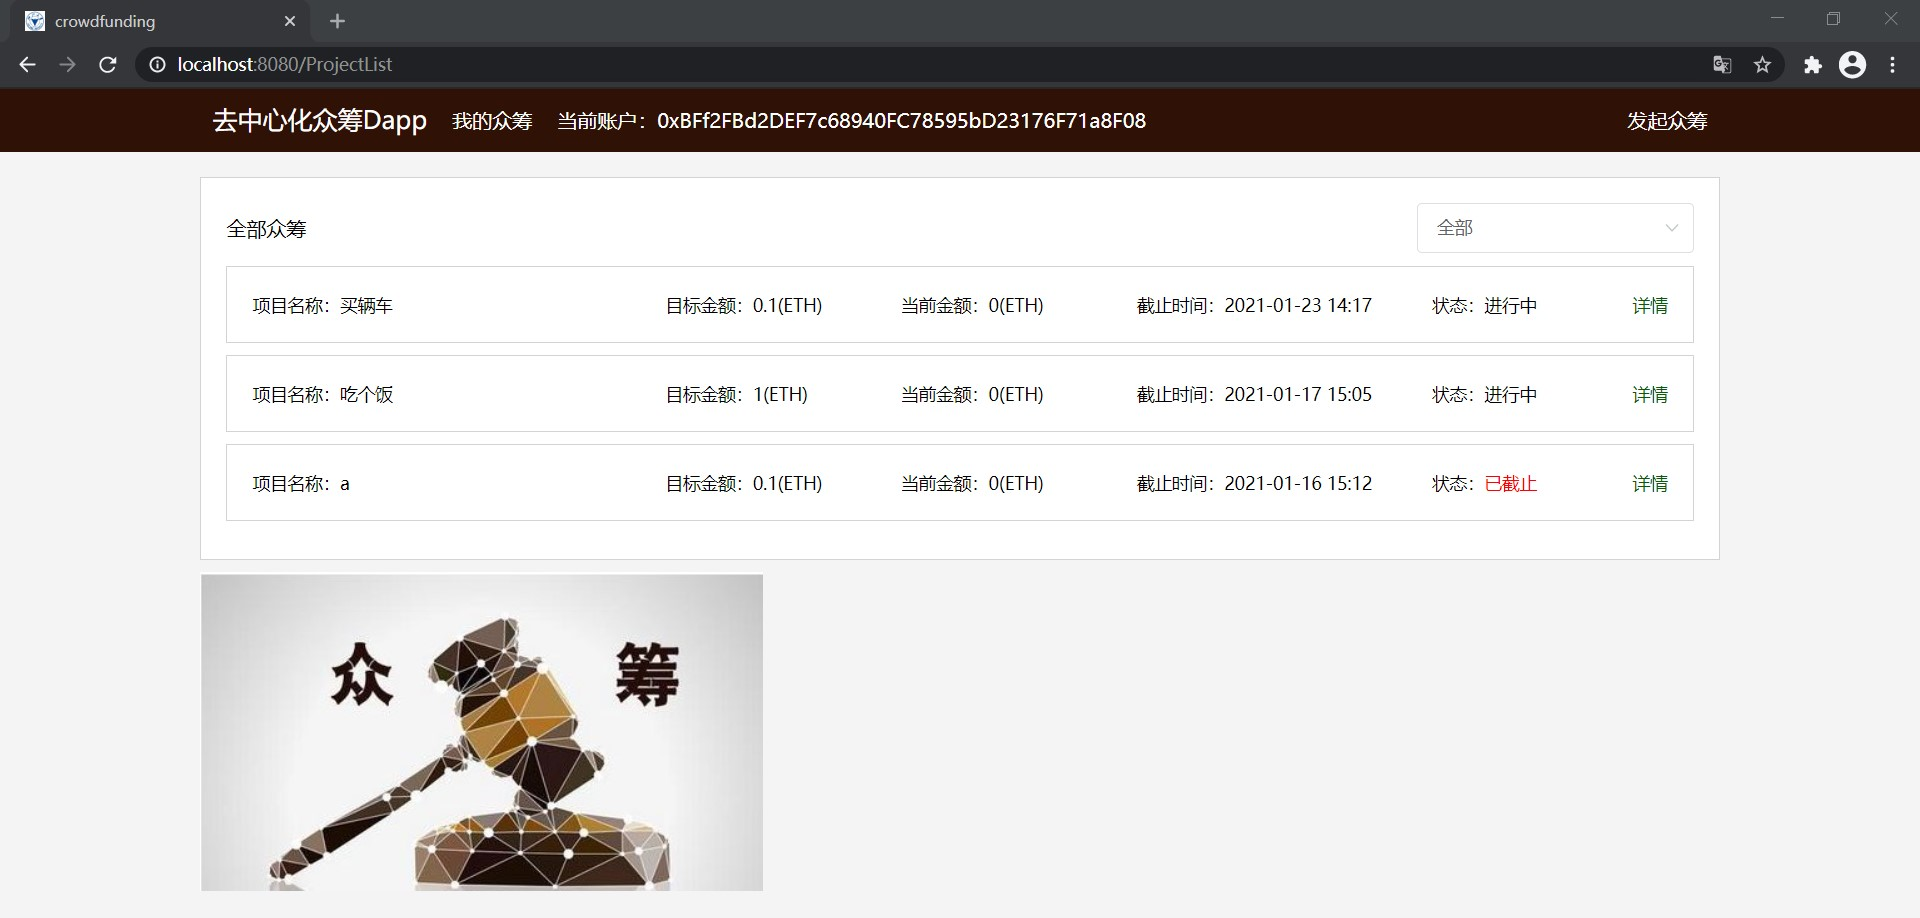
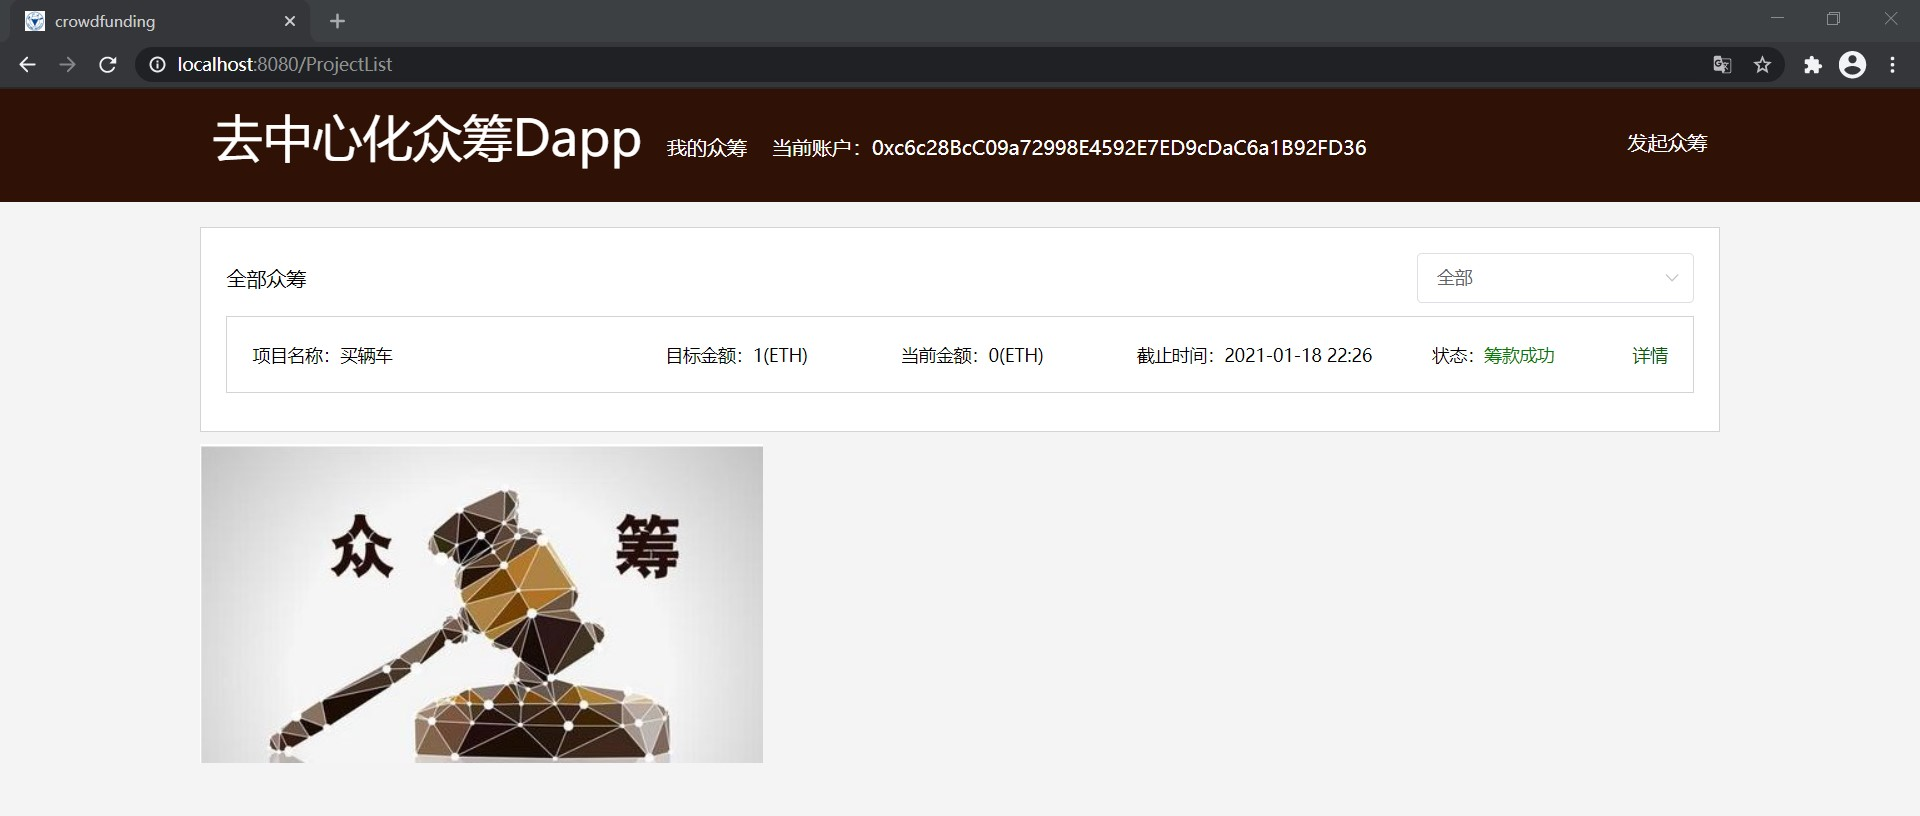
‘finalwork提交

diff --git a/zangyixiao/finalWork/crowdfunding/src/components/navigation.vue b/zangyixiao/finalWork/crowdfunding/src/components/navigation.vue
@@ -59,7 +59,7 @@ export default {
 <style scoped>
 .mainNav {
   background-color: #301105;
-  height: 50px;
+  height: 90px;
   padding: 0 160px;
   font-size: 16px;
   font-family: 微软雅黑;
@@ -69,7 +69,7 @@ export default {
 }
 
 .navButton {
-  font-size: 20px;
+  font-size: 40px;
   color: white;
   text-decoration: none;
   position: relative;
@@ -99,7 +99,7 @@ export default {
 .positionRight {
   position: absolute;
   right: 160px;
-  top: 14px;
+  top: 32px;
 }
 
 .el-dropdown-link {

diff --git a/zangyixiao/finalWork/crowdfunding/src/components/RequestWithdrawal.vue b/zangyixiao/finalWork/crowdfunding/src/components/RequestWithdrawal.vue
@@ -12,7 +12,7 @@
             <el-input required="true" type="textarea" v-model="form.introduction"></el-input>
         </el-form-item>
         <el-form-item>
-            <el-button type="primary" @click="onSubmit">请求使用</el-button>
+            <el-button @click="onSubmit">请求使用</el-button>
             <el-button @click="onCancel">取消</el-button>
         </el-form-item>
         </el-form>   

diff --git a/zangyixiao/finalWork/crowdfunding/src/components/Launch.vue b/zangyixiao/finalWork/crowdfunding/src/components/Launch.vue
@@ -16,7 +16,7 @@
             <el-input type="textarea" v-model="form.introduction"></el-input>
         </el-form-item>
         <el-form-item>
-            <el-button type="primary" @click="onSubmit">开始众筹</el-button>
+            <el-button @click="onSubmit">开始众筹</el-button>
             <el-button @click="onCancel">取消</el-button>
         </el-form-item>
         </el-form>   

diff --git a/zangyixiao/finalWork/crowdfunding/src/eth/CrowdFunding.js b/zangyixiao/finalWork/crowdfunding/src/eth/CrowdFunding.js
@@ -312,6 +312,6 @@ let abi = [
 		"type": "function"
 	}
 ]
-let address = '0x20D69794e249e76B80B138A7A62370205cE41e96'
+let address = '0x284a71E7Aaca766D15B0f2BcE58a777E332364C9'
 let contractInstance = new web3.eth.Contract(abi, address)
 module.exports = contractInstance

diff --git a/zangyixiao/finalWork/README.md b/zangyixiao/finalWork/README.md
@@ -102,3 +102,7 @@
 
 
 
+#### 5. 发起使用请求页面
+
+![5](/images/5.JPG)
+
